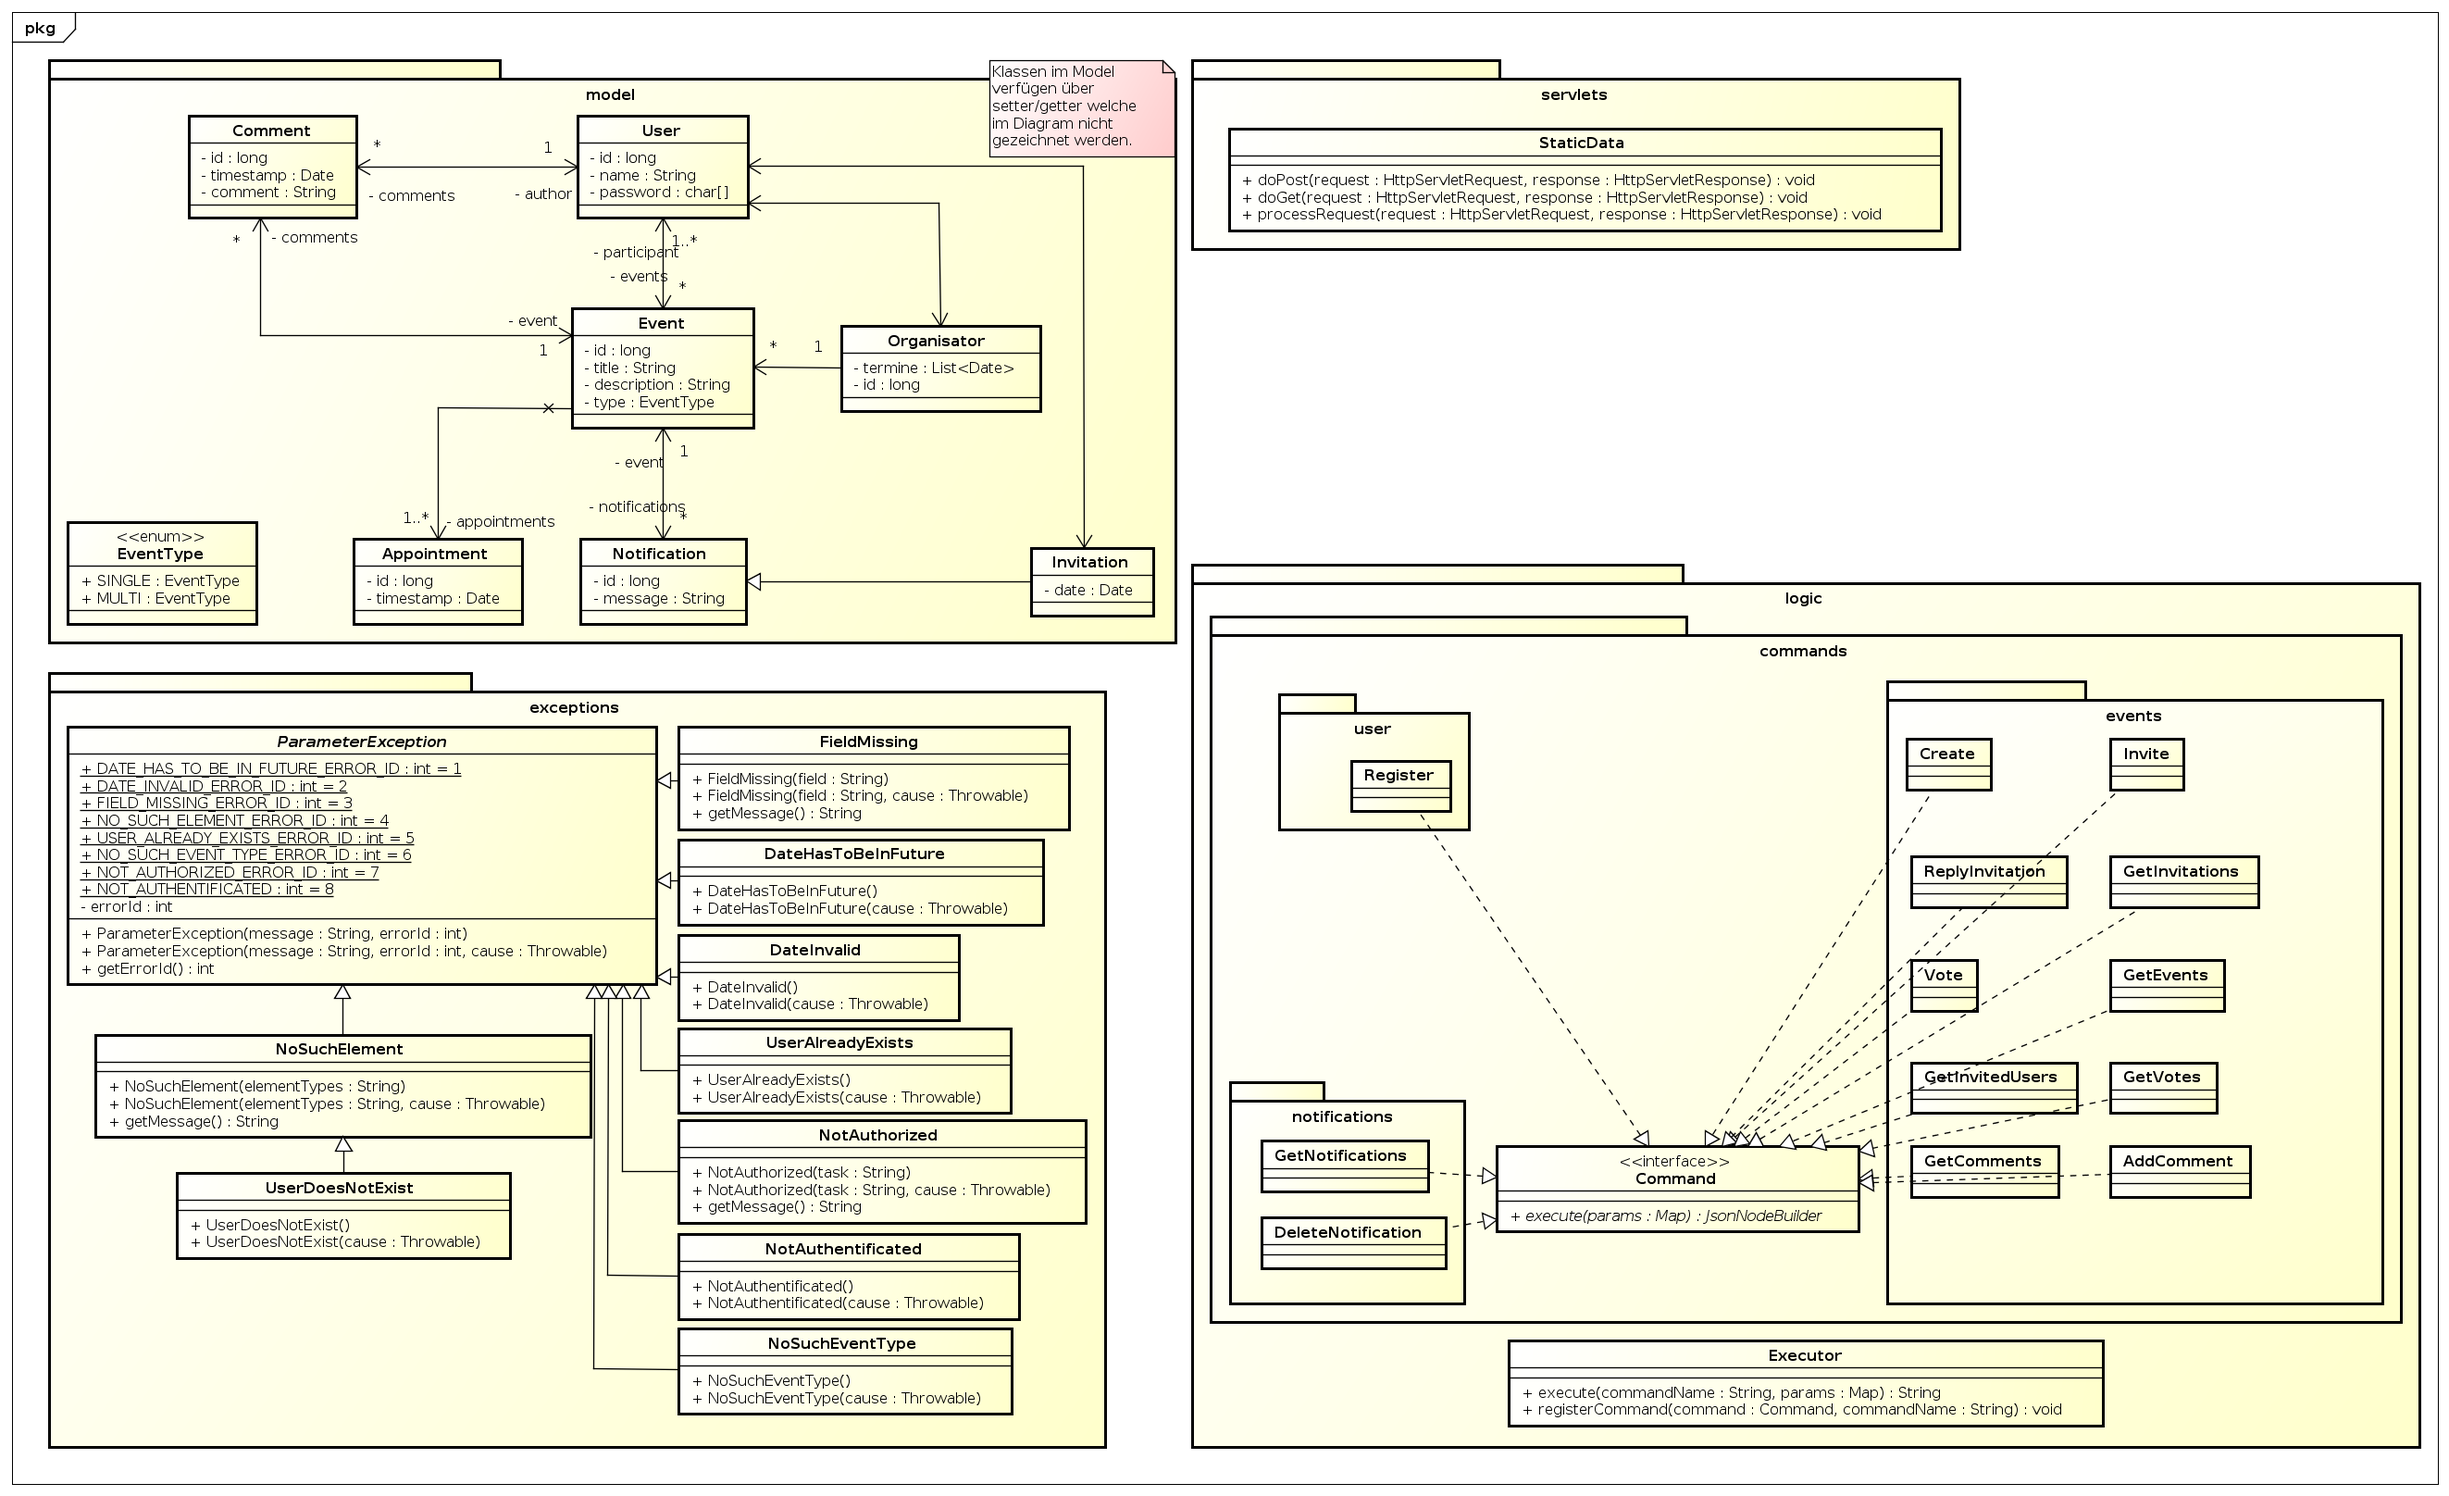
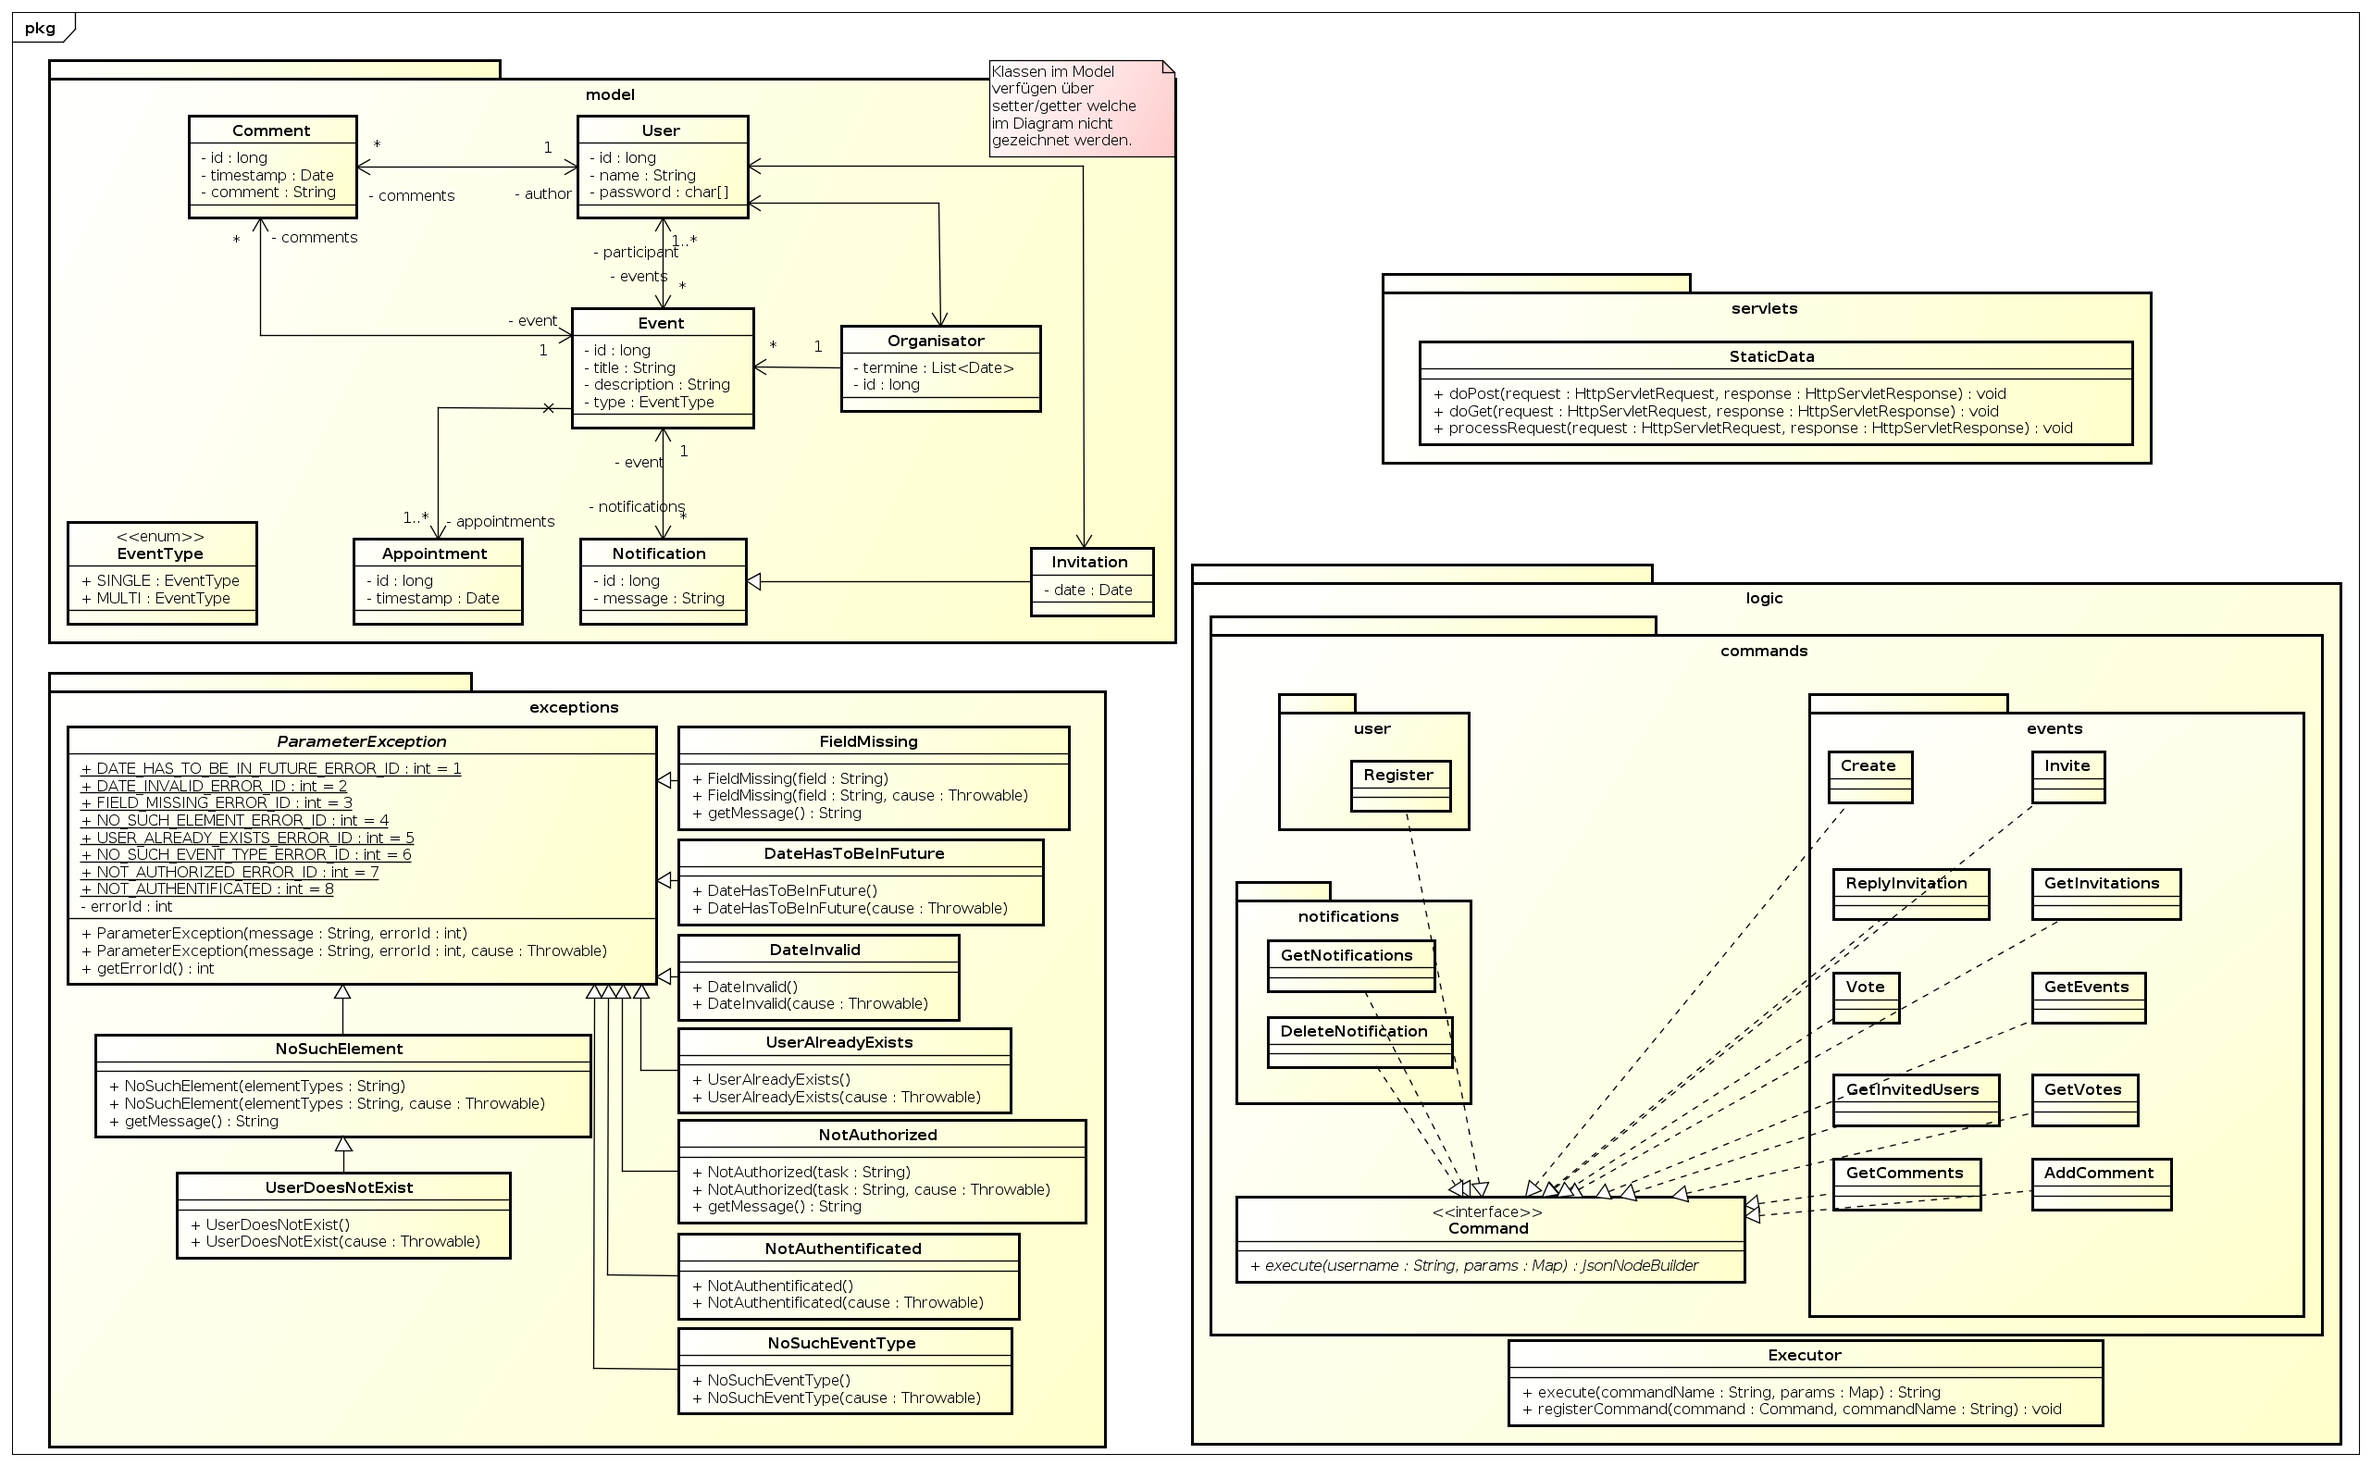
username:String als Parameter in der Methode Command#execute hinzugefügt
macht die Autorisierung und Authentifizierung einfacher

Changed region(s): [[0.0, 0.0, 0.9992, 1.0]]

diff --git a/src/main/java/kehd/bigpicture/logic/Executor.java b/src/main/java/kehd/bigpicture/logic/Executor.java
@@ -30,7 +30,7 @@ public class Executor {
      */
     public static final JsonFormatter JSON_FORMATTER =
             (System.getProperty("bp-debug") == null
-                    ?false
+                    ?false // && funktioniert hier nicht -> NullPointerException, bedingte zuweisung geht
                     :System.getProperty("bp.pretty-json").toLowerCase().equals("true"))
                     ?new PrettyJsonFormatter()
                     :new CompactJsonFormatter();
@@ -51,14 +51,14 @@ public class Executor {
      * @param params Map mit Parametern
      * @return Rueckgabe des Commands
      */
-	public String execute(String commandName, Map<String, String> params) {
+	public String execute(String commandName, String username, Map<String, String> params) {
         Command command = commandMapping.get(commandName);
 
         JsonNodeBuilder errorNodeBuilder = aNullBuilder();
         JsonNodeBuilder resultNodeBuilder = aNullBuilder();
 
         try {
-            resultNodeBuilder = command.execute(params);
+            resultNodeBuilder = command.execute(username, params);
         } catch (ParameterException e) {
             errorNodeBuilder = anObjectBuilder()
                     .withField("code", aNumberBuilder("" + e.getErrorId()))

diff --git a/src/main/java/kehd/bigpicture/logic/commands/events/Create.java b/src/main/java/kehd/bigpicture/logic/commands/events/Create.java
@@ -22,11 +22,10 @@ public class Create implements Command {
     }
 
     @Override
-    public JsonNodeBuilder execute(Map<String, String> params)
+    public JsonNodeBuilder execute(String username, Map<String, String> params)
             throws FieldMissing, NotAuthentificated {
         String eventName = params.get("eventName");
         String eventType = params.get("eventType");
-        String userName = params.get("userName");
 
         // Testen ob parameter null sind
         if(eventName == null) {
@@ -36,7 +35,7 @@ public class Create implements Command {
         //if(eventType == null) {
         //    throw new FieldMissing("EventType");
         //}
-        if(userName == null) {
+        if(username == null) {
             throw new NotAuthentificated();
         }
 
@@ -56,7 +55,7 @@ public class Create implements Command {
                         "FROM User " +
                         "JOIN Organisator " +
                         "WHERE User.name = :userName", Organisator.class)
-                .setParameter("userName", userName)
+                .setParameter("userName", username)
                 .getSingleResult();
 
         event.setOrganisator(organisator);

diff --git a/src/main/java/kehd/bigpicture/logic/commands/events/AddComment.java b/src/main/java/kehd/bigpicture/logic/commands/events/AddComment.java
@@ -24,10 +24,9 @@ public class AddComment implements Command {
     }
 
     @Override
-    public JsonNodeBuilder execute(Map<String, String> params) throws ParameterException {
+    public JsonNodeBuilder execute(String username, Map<String, String> params) throws ParameterException {
         String eventName = params.get("eventName");
         String content = params.get("content");
-        String userName = params.get("userName");
 
         EntityManager manager = entityManagerFactory.createEntityManager();
         manager.getTransaction().begin();
@@ -38,7 +37,7 @@ public class AddComment implements Command {
                     "SELECT DISTINCT User " +
                             "FROM User " +
                             "WHERE User.name = :userName", User.class)
-                    .setParameter("userName", userName)
+                    .setParameter("userName", username)
                     .getSingleResult();
 
 

diff --git a/src/main/java/kehd/bigpicture/logic/commands/Command.java b/src/main/java/kehd/bigpicture/logic/commands/Command.java
@@ -14,11 +14,14 @@ public interface Command {
     public static final DateFormat DATE_FORMAT = new SimpleDateFormat("yyyy-MM-dd'T'HH:mm:ssXXX");
 
     /**
-     * TODO
-     * @param params
-     * @return
+     * Fuehrt Command aus
+     *
+     * @param username User mit dem das Command ausgefuehrt werden soll.
+     * @param params Parameter
+     *
+     * @return Ergebniss als Json
      * @throws ParameterException
      */
-	public abstract JsonNodeBuilder execute(Map<String, String> params) throws ParameterException;
+	public abstract JsonNodeBuilder execute(String username, Map<String, String> params) throws ParameterException;
 
 }

diff --git a/src/main/java/kehd/bigpicture/logic/commands/user/Register.java b/src/main/java/kehd/bigpicture/logic/commands/user/Register.java
@@ -24,10 +24,9 @@ public class Register implements Command {
     }
 
     @Override
-    public JsonNodeBuilder execute(Map<String, String> params) throws UserAlreadyExists {
+    public JsonNodeBuilder execute(String username, Map<String, String> params) throws UserAlreadyExists {
         EntityManager entityManager = entityManagerFactory.createEntityManager();
 
-        String username = params.get("username");
         String password = params.get("password");
 
         String passHash = BCrypt.hashpw(password, BCrypt.gensalt());

diff --git a/src/main/java/kehd/bigpicture/logic/commands/notifications/GetNotifications.java b/src/main/java/kehd/bigpicture/logic/commands/notifications/GetNotifications.java
@@ -7,7 +7,7 @@ import javax.persistence.EntityManagerFactory;
 import java.util.Map;
 
 /**
- * Created by jakob on 6/2/14.
+ *
  */
 public class GetNotifications implements Command {
     private EntityManagerFactory entityManagerFactory;
@@ -17,7 +17,7 @@ public class GetNotifications implements Command {
     }
 
     @Override
-    public JsonNodeBuilder execute(Map<String, String> params) {
+    public JsonNodeBuilder execute(String username, Map<String, String> params) {
         return null;
     }
 }

diff --git a/src/main/java/kehd/bigpicture/logic/commands/events/Invite.java b/src/main/java/kehd/bigpicture/logic/commands/events/Invite.java
@@ -18,7 +18,7 @@ public class Invite implements Command {
     }
 
     @Override
-    public JsonNodeBuilder execute(Map<String, String> params) {
+    public JsonNodeBuilder execute(String username, Map<String, String> params) {
         String eventName = params.get("eventName");
         String date = params.get("date");
         String user = params.get("user");

diff --git a/src/main/java/kehd/bigpicture/logic/commands/events/GetEvents.java b/src/main/java/kehd/bigpicture/logic/commands/events/GetEvents.java
@@ -54,7 +54,7 @@ public class GetEvents implements Command {
     }
 
     @Override
-    public JsonNodeBuilder execute(Map<String, String> params) {
+    public JsonNodeBuilder execute(String username, Map<String, String> params) {
 
         EntityManager manager = entityManagerFactory.createEntityManager();
 

diff --git a/src/main/java/kehd/bigpicture/logic/commands/notifications/DeleteNotification.java b/src/main/java/kehd/bigpicture/logic/commands/notifications/DeleteNotification.java
@@ -17,7 +17,7 @@ public class DeleteNotification implements Command {
     }
 
     @Override
-    public JsonNodeBuilder execute(Map<String, String> params) {
+    public JsonNodeBuilder execute(String username, Map<String, String> params) {
         return null;
     }
 }

diff --git a/src/main/java/kehd/bigpicture/logic/commands/events/GetInvitedUsers.java b/src/main/java/kehd/bigpicture/logic/commands/events/GetInvitedUsers.java
@@ -14,7 +14,7 @@ public class GetInvitedUsers implements Command {
     }
 
     @Override
-    public JsonNodeBuilder execute(Map<String, String> params) {
+    public JsonNodeBuilder execute(String username, Map<String, String> params) {
         return null;
     }
 }

diff --git a/src/main/java/kehd/bigpicture/logic/commands/events/ReplyInvitation.java b/src/main/java/kehd/bigpicture/logic/commands/events/ReplyInvitation.java
@@ -14,7 +14,7 @@ public class ReplyInvitation implements Command {
     }
 
     @Override
-    public JsonNodeBuilder execute(Map<String, String> params) {
+    public JsonNodeBuilder execute(String username, Map<String, String> params) {
         return null;
     }
 }

diff --git a/src/main/java/kehd/bigpicture/logic/commands/events/GetComments.java b/src/main/java/kehd/bigpicture/logic/commands/events/GetComments.java
@@ -14,7 +14,7 @@ public class GetComments implements Command {
     }
 
     @Override
-    public JsonNodeBuilder execute(Map<String, String> params) {
+    public JsonNodeBuilder execute(String username, Map<String, String> params) {
         return null;
     }
 }
